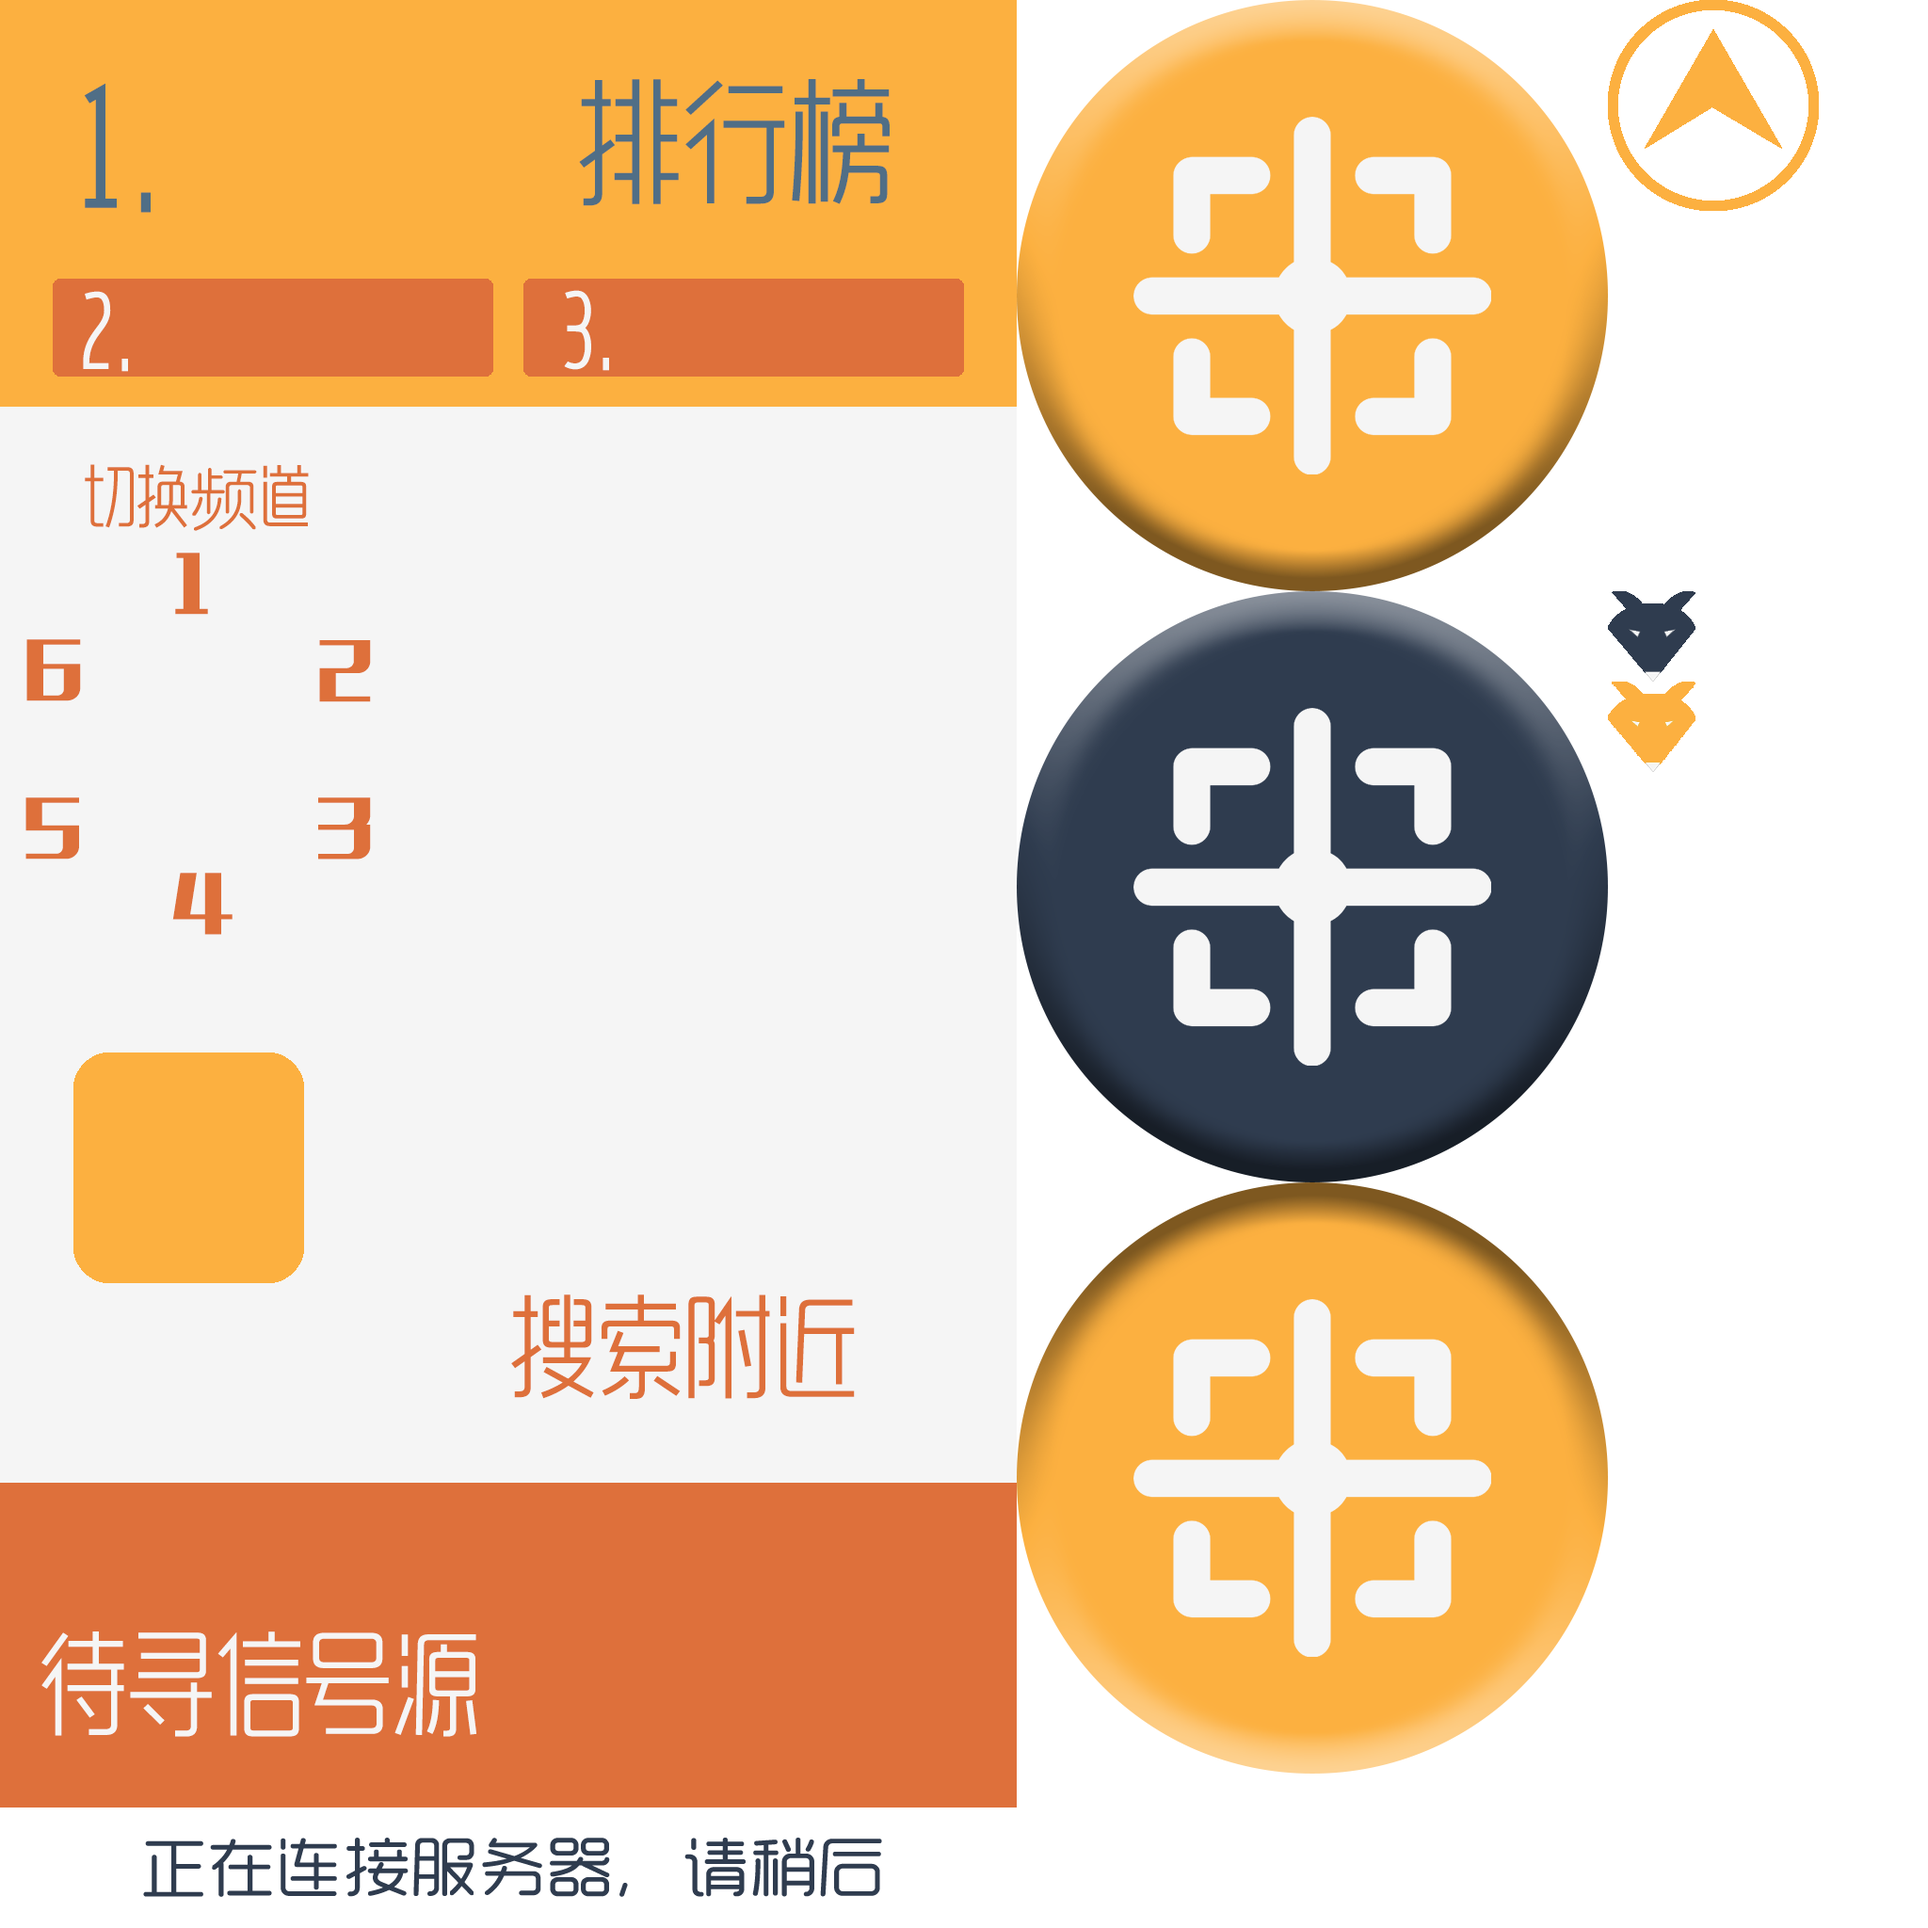
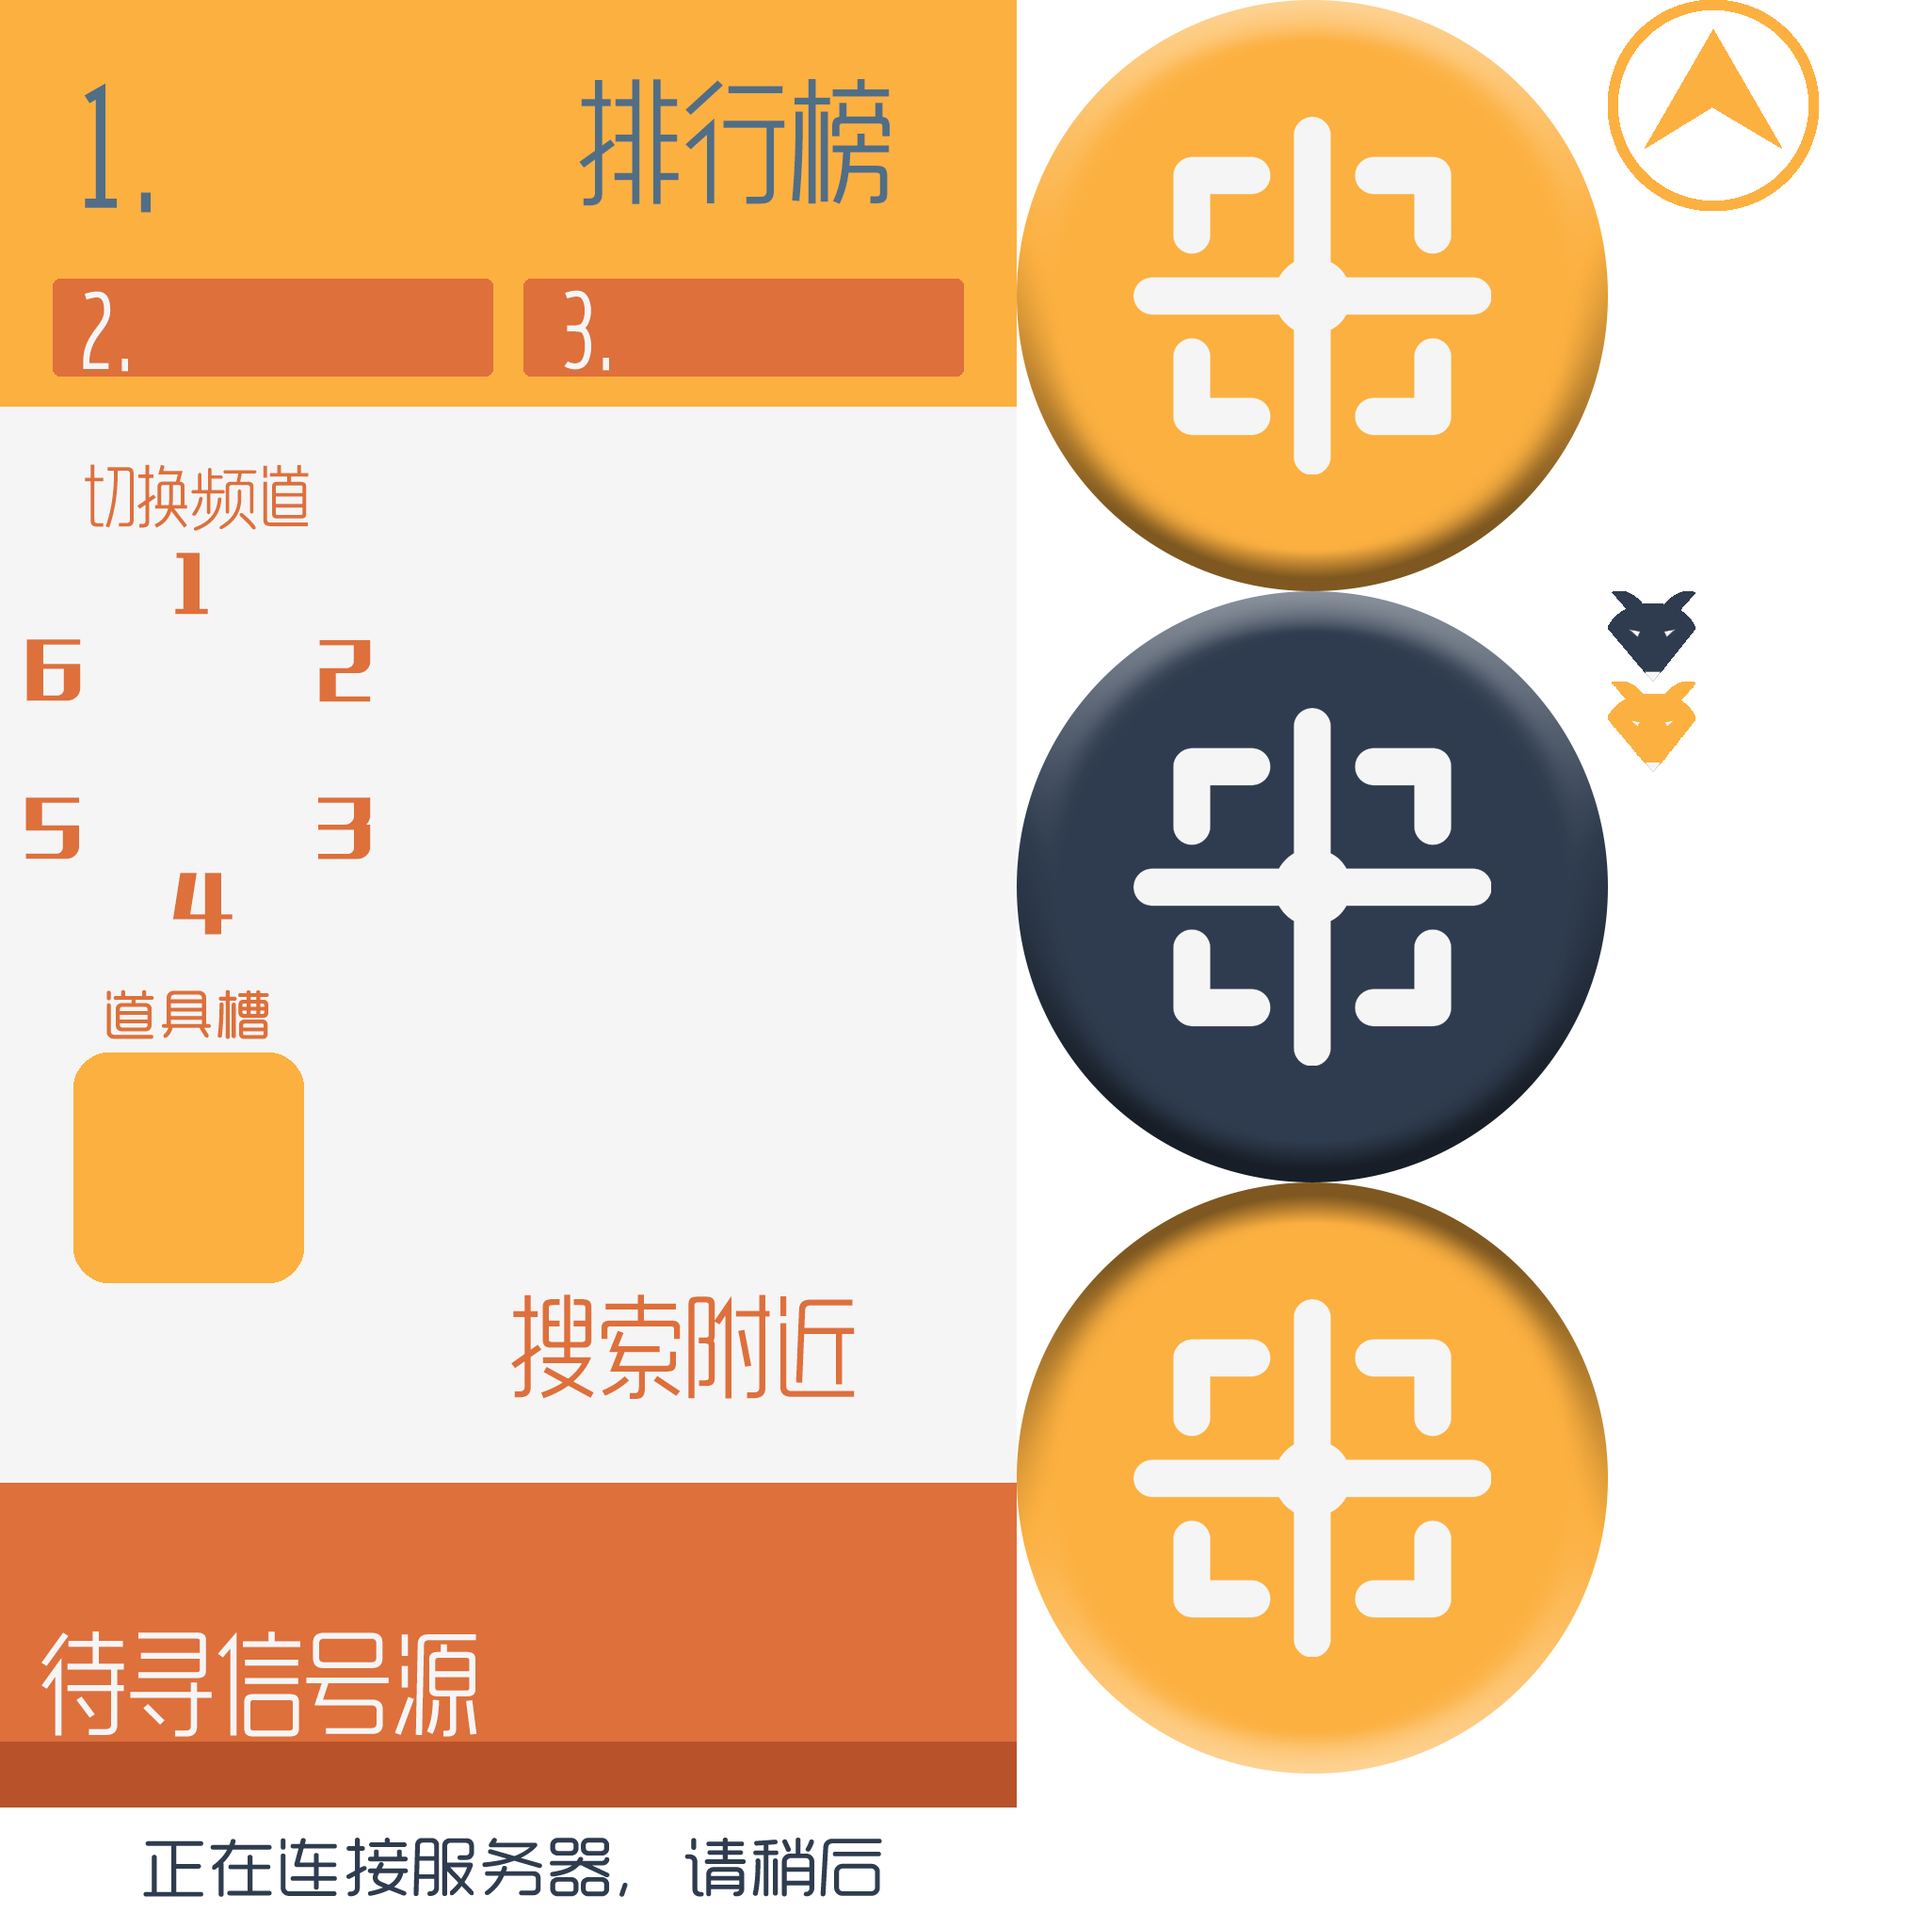
完善了ITEM的所有图像 完善了提示内容

Changed region(s): [[0.0, 0.9062, 0.5312, 0.9375], [0.0625, 0.5, 0.1562, 0.5625]]

diff --git a/app/src/main/java/com/hunter/game/GameScreen.java b/app/src/main/java/com/hunter/game/GameScreen.java
@@ -1,11 +1,10 @@
 package com.hunter.game;
 
-import android.util.Log;
-
 import com.hunter.game.models.GameState;
 import com.hunter.game.models.Item;
 import com.hunter.game.models.RoomRule;
 import com.hunter.game.models.Signal;
+import com.hunter.game.models.ToastRenderer;
 import com.hunter.game.models.Tools;
 import com.hunter.sensor.SensorException;
 import com.hunter.sensor.SensorSupport;
@@ -32,10 +31,8 @@ import javax.microedition.khronos.opengles.GL10;
 public class GameScreen extends GLScreen {
     private Camera2D camera;
     private SpriteBatcher batcher;
+    private ToastRenderer toastRenderer;
     //present有关变量
-    //private float TICK = 0.04f;
-    //private float stateTime;
-    //private int networkFrame;
     private Vector2 touchPos;
     private Circle searchButton;
     private Circle freqButton;
@@ -54,12 +51,11 @@ public class GameScreen extends GLScreen {
     public GameScreen(Game game) {
         super(game);
         camera = new Camera2D(glGraphics, 1080, 1920);
-        batcher = new SpriteBatcher(glGraphics, 30);
+        batcher = new SpriteBatcher(glGraphics, 50);
         mode = ((HuntGame)glGame).mode;
+        toastRenderer = new ToastRenderer(540,960,884,160,batcher);
         //初始化Present有关变量
         touchPos = new Vector2();
-        //stateTime = 0.0f;
-        //networkFrame = 0;
         buttonState = BUTTON_UP;
         searchButton = new Circle(710,894,314);
         freqButton = new Circle(204,1128,224);
@@ -88,7 +84,9 @@ public class GameScreen extends GLScreen {
         //更新游戏状态
 
         if (((HuntGame)glGame).isNewData()) {
-            state.receiveItem(((HuntGame) glGame).getItem());
+            Item item = ((HuntGame) glGame).getItem();
+            if (item != null) toastRenderer.addToast(GameAssets.TOAST_ITEM_GET);
+            state.receiveItem(item);
             //获得服务器返回的道具
             highScores = ((HuntGame) glGame).getHighScores();
             //获得最高分列表
@@ -100,7 +98,7 @@ public class GameScreen extends GLScreen {
                 for (int i = 0; i < items.size(); i++) {
                     Item temp = items.get(i);
                     state.receiveAffect(temp);
-                    Log.d("item","Activate No."+temp.getItemType());
+                    toastRenderer.addToast(GameAssets.TOAST_UNDER_ITEM);
                 }
             }
             //获得道具的附加状态
@@ -136,8 +134,12 @@ public class GameScreen extends GLScreen {
                 if (OverlapTest.pointInCircle(searchButton,touchPos)) {
                     try {
                         int signal = state.search(ss.getLatitude(),ss.getLongitude());
-                        Log.d("search", "result"+signal);
-                        if (signal != -1) ((HuntGame)glGame).findSignal(signal);
+                        if (signal == -1) {
+                            toastRenderer.addToast(GameAssets.TOAST_NO_SIG_GET);
+                        }else {
+                            ((HuntGame)glGame).findSignal(signal);
+                            toastRenderer.addToast(GameAssets.TOAST_SIG_GET);
+                        }
                     }catch (SensorException e) {
                         Tools.showDialog(glGame, "搜索时错误", "无法定位");
                     }
@@ -228,12 +230,22 @@ public class GameScreen extends GLScreen {
         }else{
             batcher.drawSprite(540,960,1080,128,GameAssets.connecting);
         }
-        //绘制提示信息
+        //绘制屏幕UI
         batcher.endBatch();
 
-        if(state.item != null) {
+        toastRenderer.printToast(GameAssets.item_texture,GameAssets.toasts,deltaTime);
+        //绘制提示信息
+
+        int itemLen = state.workingItems.size();
+        if(state.item != null || itemLen != 0) {
             batcher.beginBatch(GameAssets.item_texture);
-            batcher.drawSprite(195,674,194,194,GameAssets.items_region[state.item.getItemType()]);
+            if (state.item != null) {
+                batcher.drawSprite(195, 674, 194, 194, GameAssets.items_region[state.item.getItemType()]);
+                batcher.drawSprite(195, 500, 188, 40, GameAssets.items_descript[state.item.getItemType()]);
+            }
+            for(int i = 0; i < state.workingItems.size(); i++) {
+                batcher.drawSprite(80+i*80,40,60,60,GameAssets.items_region[state.workingItems.get(i).getItemType()]);
+            }
             batcher.endBatch();
         }
         //绘制道具
@@ -242,13 +254,17 @@ public class GameScreen extends GLScreen {
         batcher.beginBatch(GameAssets.font_texture);
         if(mode == RoomRule.MODE_BATTLE) {
             GameAssets.font.setScale(1.5f, 2.5f);
-            GameAssets.font.drawText(batcher, "Mike 0", 196, 1740);
+            GameAssets.font.drawText(batcher, highScores.get(0), 196, 1740);
+            GameAssets.font.setScale(1.5f,2.0f);
+            GameAssets.font.drawText(batcher, highScores.get(1), 196, 1566);
+            GameAssets.font.drawText(batcher, highScores.get(2), 700, 1566);
         }else {
             GameAssets.font.setScale(1.5f, 2.5f);
             GameAssets.font.drawText(batcher,highScores.get(0),340,1620);
             GameAssets.font.drawText(batcher,highScores.get(1),700,1620);
         }
         batcher.endBatch();
+        //绘制最高分
 
         gl.glDisable(GL10.GL_BLEND);
     }

diff --git a/app/src/main/java/com/hunter/game/GameAssets.java b/app/src/main/java/com/hunter/game/GameAssets.java
@@ -27,6 +27,12 @@ public class GameAssets {
     public static TextureRegion fox_red;
     public static TextureRegion fox_blue;
     public static TextureRegion[] items_region;
+    public static TextureRegion[] items_descript;
+    public static TextureRegion[] toasts;
+    public static final int TOAST_SIG_GET = 0;
+    public static final int TOAST_NO_SIG_GET = 1;
+    public static final int TOAST_ITEM_GET = 2;
+    public static final int TOAST_UNDER_ITEM = 3;
     public static Font font;
 
     public static void load(GLGame game) {
@@ -48,13 +54,23 @@ public class GameAssets {
 
         font = new Font(font_texture,0,0,16,32,48);
 
-        items_region = new TextureRegion[6];
+        items_region = new TextureRegion[5];
         items_region[0] = new TextureRegion(item_texture,0,0,194,194);
         items_region[1] = new TextureRegion(item_texture,194,0,194,194);
         items_region[2] = new TextureRegion(item_texture,388,0,194,194);
         items_region[3] = new TextureRegion(item_texture,0,194,194,194);
         items_region[4] = new TextureRegion(item_texture,194,194,194,194);
-        items_region[5] = new TextureRegion(item_texture,388,194,194,194);
+        items_descript = new TextureRegion[5];
+        for(int i = 0; i < 3; i++) {
+            items_descript[i] = new TextureRegion(item_texture, 582, 40*i, 188, 40);
+        }
+        for (int i = 3; i < 5; i++) {
+            items_descript[i] = new TextureRegion(item_texture, 770, 40*(i%3), 188, 40);
+        }
+        toasts = new TextureRegion[4];
+        for(int i = 0; i < 4; i++) {
+            toasts[i] = new TextureRegion(item_texture, 582, 120+80*i, 442, 80);
+        }
 
     }
 

diff --git a/app/src/main/java/com/hunter/game/models/ToastRenderer.java b/app/src/main/java/com/hunter/game/models/ToastRenderer.java
@@ -1,0 +1,41 @@
+package com.hunter.game.models;
+
+import com.wxyz.framework.gl.SpriteBatcher;
+import com.wxyz.framework.gl.Texture;
+import com.wxyz.framework.gl.TextureRegion;
+
+/**
+ * 提示渲染器，用于渲染提示.
+ * Created by weiyan on 2016/12/10.
+ */
+
+public class ToastRenderer {
+    private float positionX;
+    private float positionY;
+    private float width;
+    private float height;
+    private SpriteBatcher batcher;
+    private int toast;
+    private float remainTime;
+
+    public ToastRenderer(float x, float y, float width, float height, SpriteBatcher spriteBatcher){
+        positionX = x;
+        positionY = y;
+        this.width = width;
+        this.height = height;
+        batcher = spriteBatcher;
+    }
+
+    public void addToast(int toast){
+        this.toast = toast;
+        remainTime = 1.5f;
+    }
+
+    public void printToast(Texture texture, TextureRegion[] toastRegion, float deltaTime){
+        if (remainTime <= 0) return;
+        batcher.beginBatch(texture);
+        batcher.drawSprite(positionX,positionY,width,height,toastRegion[toast]);
+        batcher.endBatch();
+        remainTime -= deltaTime;
+    }
+}

diff --git a/app/src/main/java/com/hunter/master/foxhunter/MainActivity.java b/app/src/main/java/com/hunter/master/foxhunter/MainActivity.java
@@ -32,8 +32,8 @@ public class MainActivity extends ListActivity {
             Intent intent = new Intent(this,clazz);
             if (testName.equals("game.HuntGame")) {
                 intent.putExtra("name","testName");
-                intent.putExtra("mode", RoomRule.MODE_TEAM);
-                intent.putExtra("roomNumber",43);
+                intent.putExtra("mode", RoomRule.MODE_BATTLE);
+                intent.putExtra("roomNumber",42);
             }
             startActivity(intent);
         }catch(ClassNotFoundException e){

diff --git a/app/src/main/java/com/hunter/game/models/GameState.java b/app/src/main/java/com/hunter/game/models/GameState.java
@@ -104,7 +104,7 @@ public class GameState {
      * @param item
      */
     public void receiveAffect(Item item) {
-        // TODO: 2016/12/4  
+        workingItems.add(item);
     }
 
     /**
